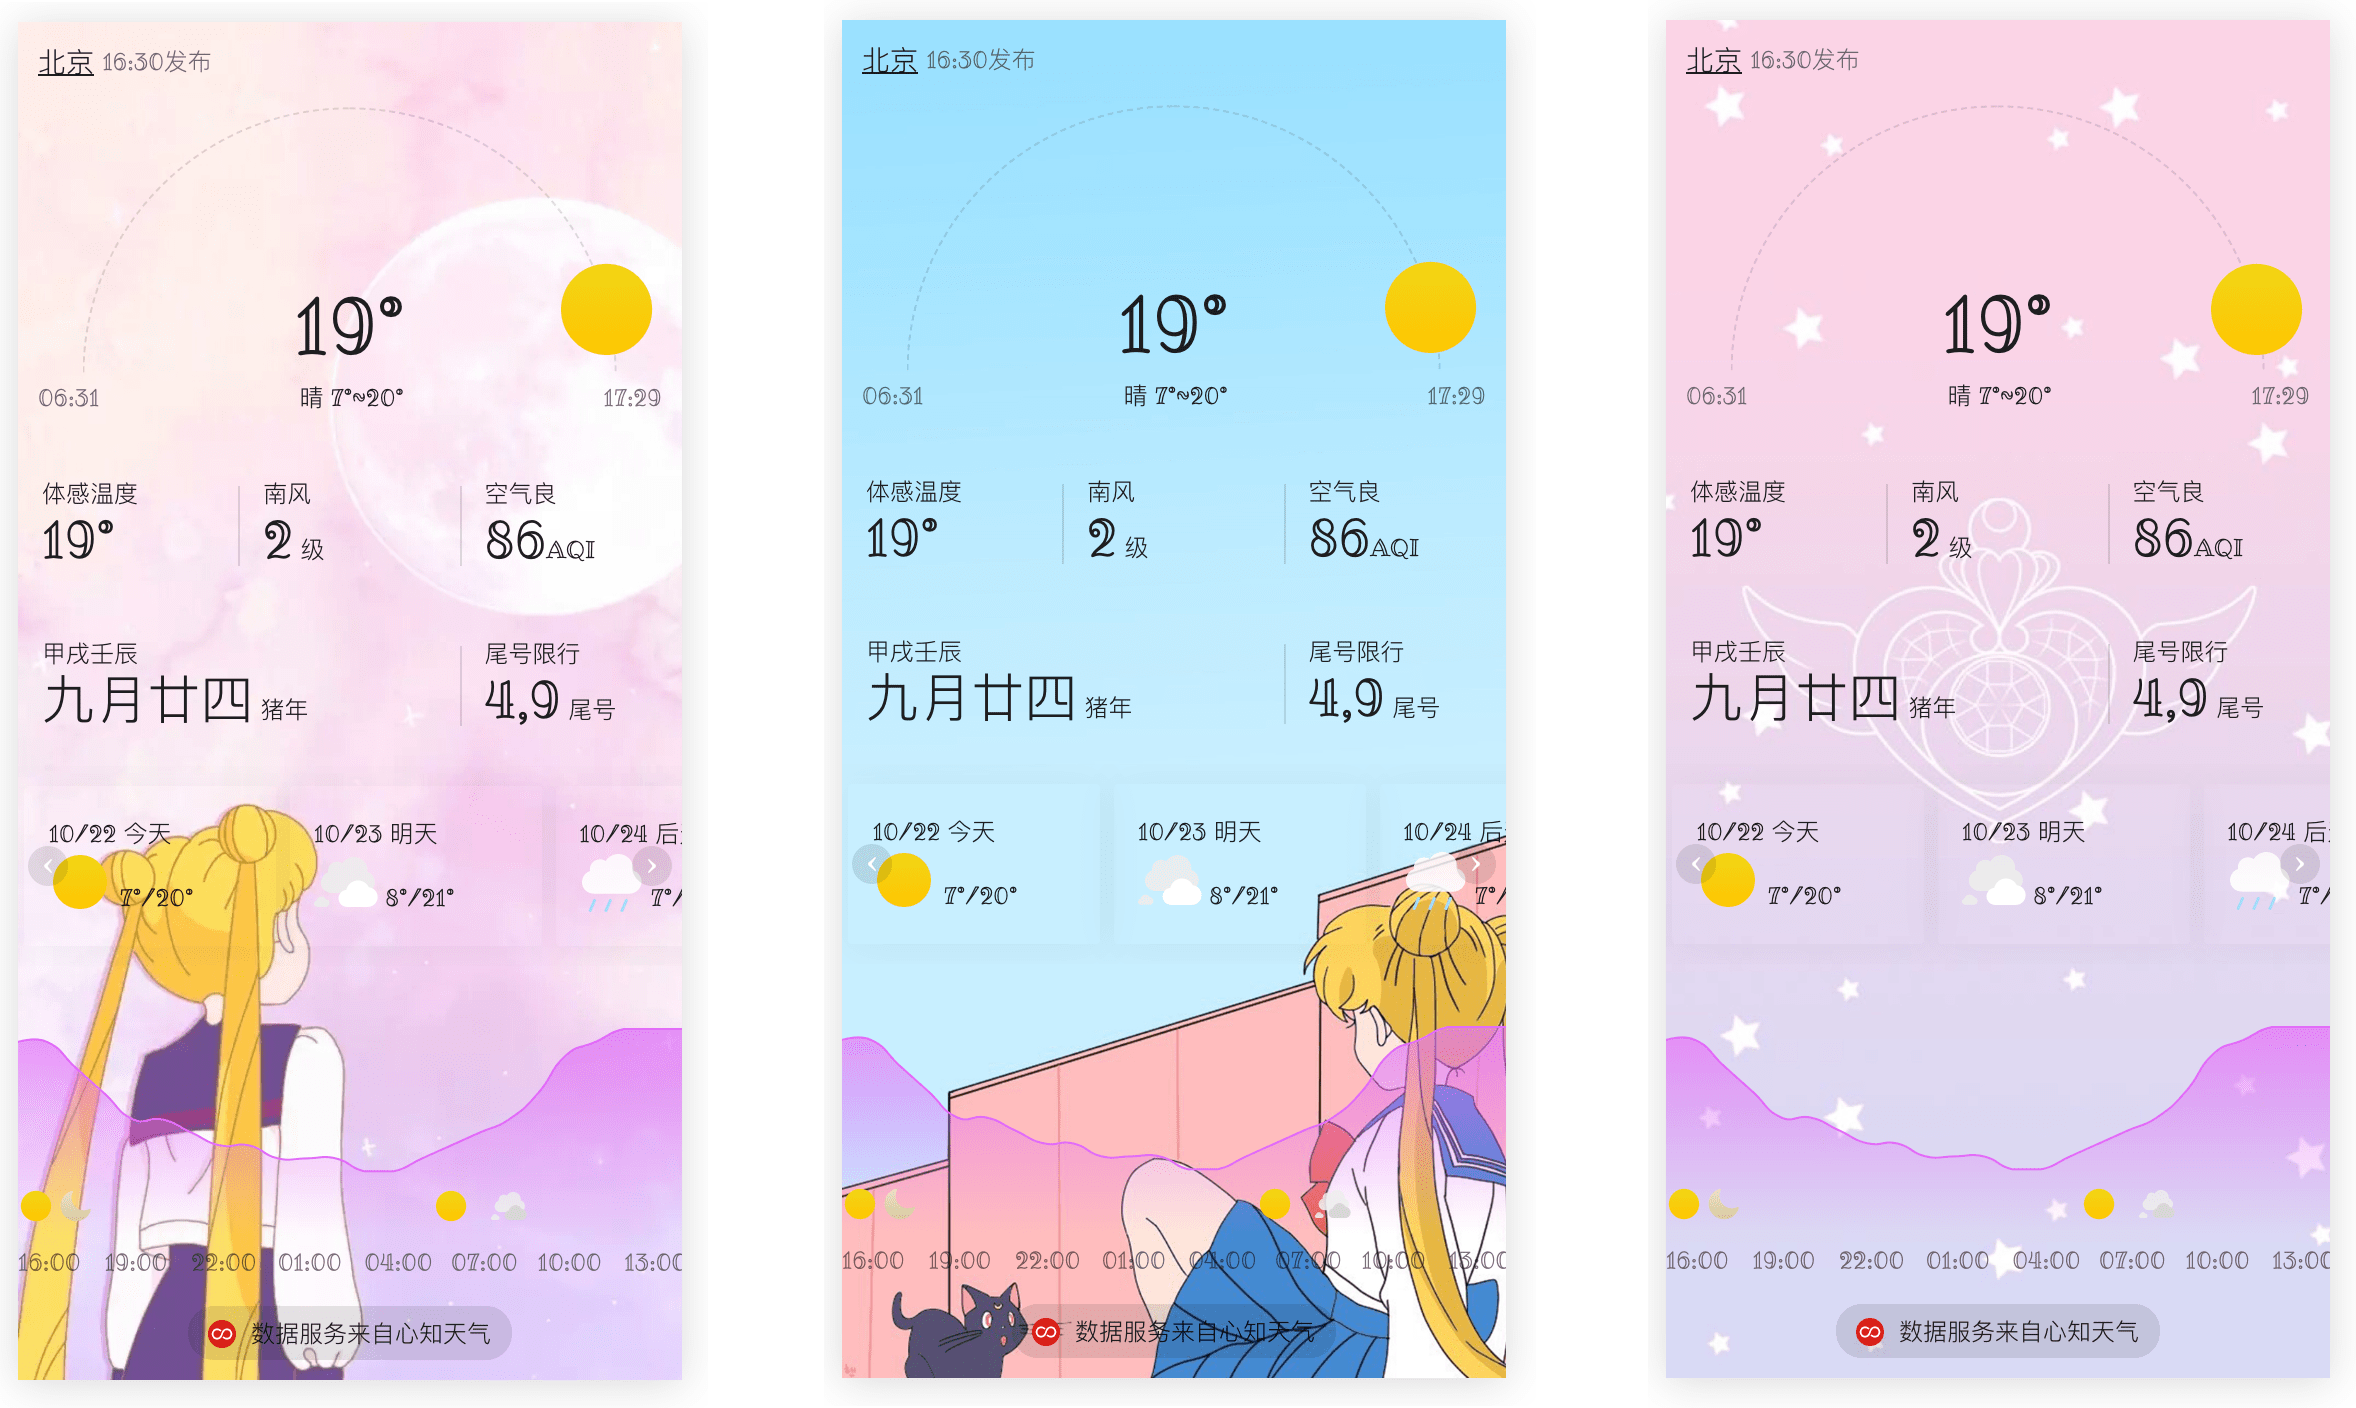
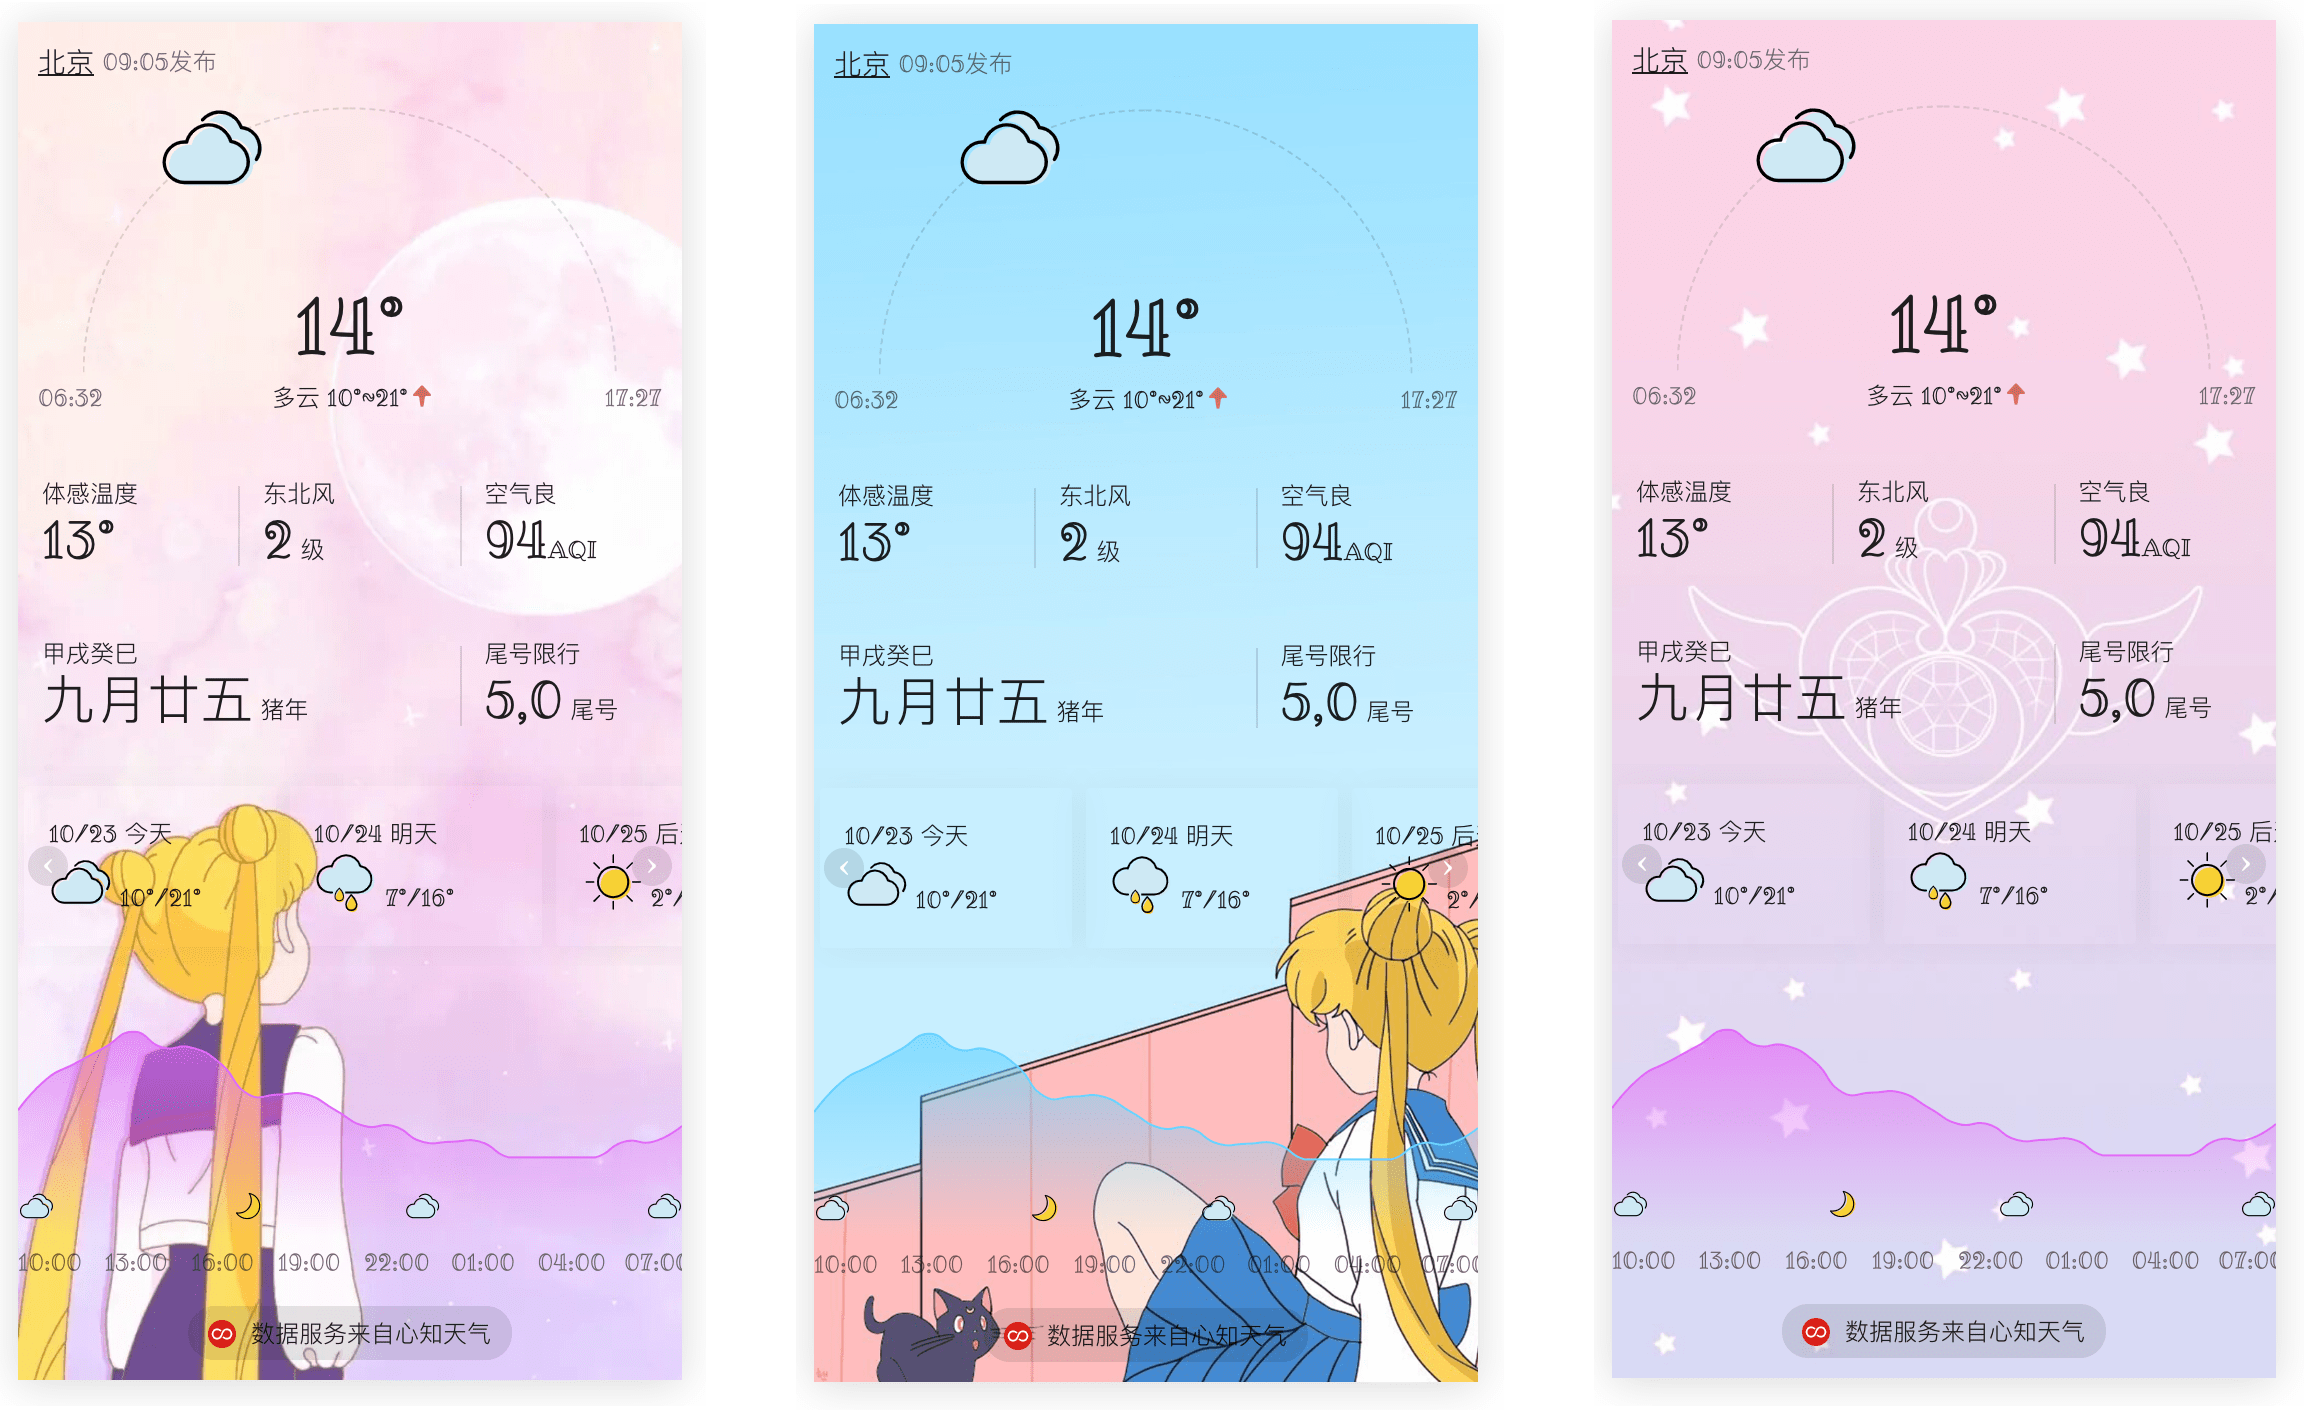
update preview image and error message

diff --git a/demo/chinese/res/css/style.css b/demo/chinese/res/css/style.css
@@ -9,7 +9,7 @@
 }
 
 /* ======================= 灯笼主题 ======================= */
-.sw-container.sw-container {
+/* .sw-container.sw-container {
   background: linear-gradient(#93FAF0, #E3F8E9);
 }
 
@@ -18,10 +18,10 @@
   background-image: url(../images/background-03.png);
   background-repeat: no-repeat;
   background-size: cover;
-}
+} */
 
 /* ======================= 鹤主题 ======================= */
-/* .sw-container.sw-container {
+.sw-container.sw-container {
   background: linear-gradient(to left, #A8C7D3, #B7D3DD);
 }
 
@@ -34,7 +34,7 @@
   background-image: url(../images/background-02.png);
   background-repeat: no-repeat;
   background-size: 100% auto;
-} */
+}
 
 /* ======================= 国旗主题 ======================= */
 /* .sw-container.sw-container {

diff --git a/demo/japanese/res/css/style.css b/demo/japanese/res/css/style.css
@@ -12,21 +12,21 @@
 }
 
 /* ======================= 鸟居主题 ======================= */
-/* .sw-container .sw-card-slim-background,
+.sw-container .sw-card-slim-background,
 .sw-container .sw-card-bubble-container {
   background-image: url(../images/background-04.png);
   background-repeat: no-repeat;
   background-size: cover;
-} */
+}
 
 
 /* ======================= 海浪主题 - 01 ======================= */
-.sw-container .sw-card-slim-background,
+/* .sw-container .sw-card-slim-background,
 .sw-container .sw-card-bubble-container {
   background-image: url(../images/background-05.png);
   background-repeat: no-repeat;
   background-size: cover;
-}
+} */
 
 /* ======================= 海浪主题 - 02 ======================= */
 /* .sw-container .sw-card-slim-background,

diff --git a/src/api/app.ts b/src/api/app.ts
@@ -18,7 +18,15 @@ const getConfig = (option: SwConfigOptions) => {
   const detected = getBrowserLanguage()
 
   if (token === '') {
-    alert('请在 "src/containers/Playground/index.tsx" 中填写 Token')
+    const error = '请填写 Token'
+    alert(`${error}。打开控制台查看更多提示信息`)
+    console.error(`错误❌：${error}`)
+    console.error(
+      '请在 https://www.seniverse.com/widgetv3 内生成插件所需的 token，并将它配置到 window.SeniverseWeatherWidget 方法中'
+    )
+    console.error(
+      '若本地开发调试或自行部署插件前端，建议将 token 配置到环境变量内，并保证能够传入到 App 组件内部'
+    )
   }
 
   return get(`${apiHost}/api/weather/${token}`, {

diff --git a/demo/README.md b/demo/README.md
@@ -1,7 +1,7 @@
 
 ## 心知天气 V3 版插件自定义样式 DEMO
 
-**注：所有的 DEMO 需要用户在生成插件 token 之后，替换 index.html 文件中的 token 方可运行。**token 可在心知天气官网生成: https://seniverse.com/widget
+**注：所有的 DEMO 需要用户在生成插件 token 之后，替换 index.html 文件中的 token 方可运行。**token 可在心知天气官网生成: https://seniverse.com/widgetv3
 
 ### Run demo
 
@@ -13,3 +13,7 @@ $ npx http-server
 
 # 打开 http://localhost:8080/chinese/ 查看效果
 ```
+
+### 版权声明
+
+Demo 内图片和图标均来源自网络，仅做样例展示使用。
